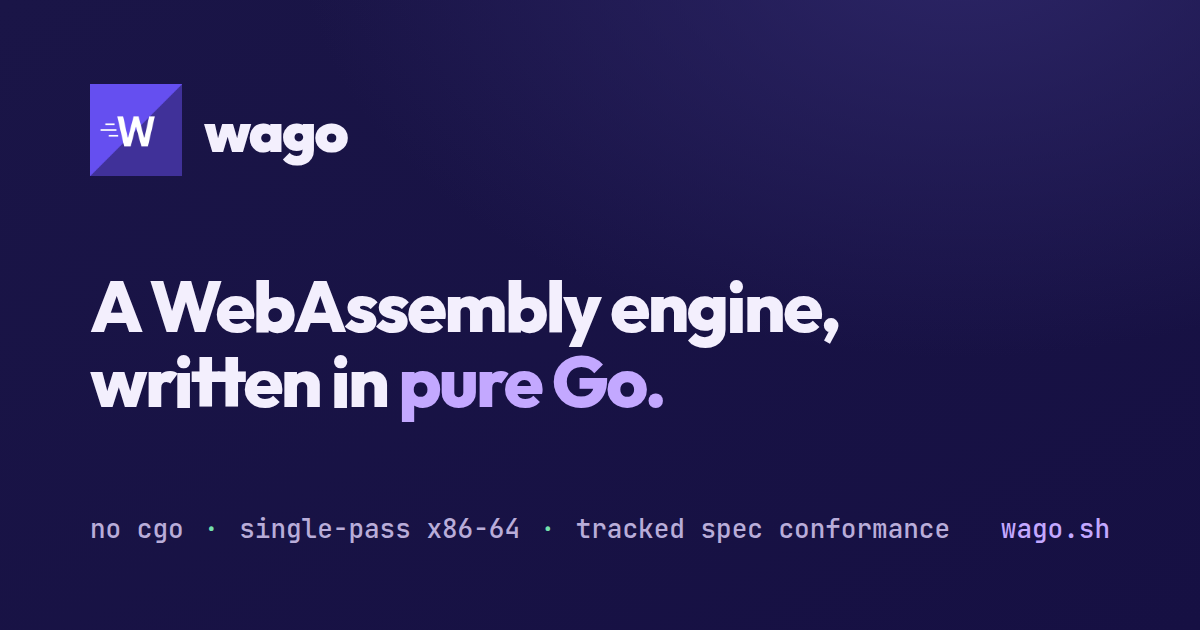
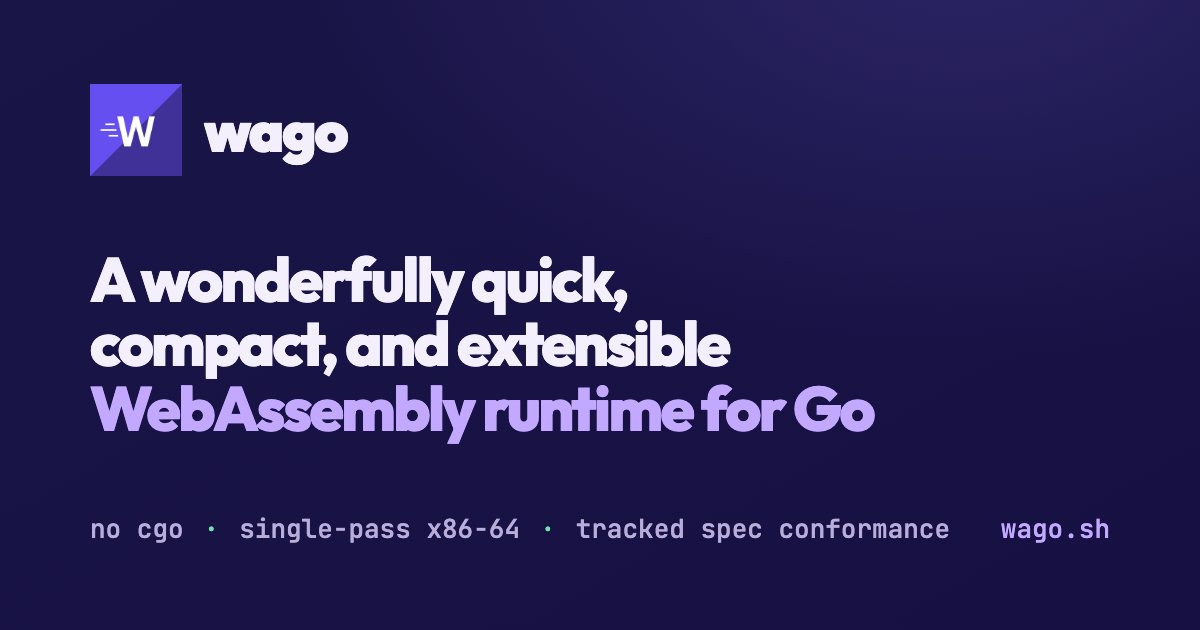
site: update Wago tagline

diff --git a/index.html b/index.html
@@ -11,7 +11,7 @@
         <title>Home | Wago</title>
         <meta
             name="description"
-            content="wago is a WebAssembly engine written in pure Go. Decode, validate, compile, and run wasm with single-pass native amd64 and arm64 backends, no cgo, and tracked conformance."
+            content="A wonderfully quick, compact, and extensible WebAssembly runtime for Go"
         />
         <link rel="canonical" href="https://wago.sh/" />
         <meta name="author" content="Jairus Tanaka" />
@@ -26,11 +26,11 @@
         <meta property="og:locale" content="en_US" />
         <meta
             property="og:title"
-            content="wago - a pure-Go WebAssembly engine"
+            content="wago — A wonderfully quick, compact, and extensible WebAssembly runtime for Go"
         />
         <meta
             property="og:description"
-            content="Embed WebAssembly in Go with no cgo. Single-pass native amd64 and arm64 backends decode, validate, compile, and run wasm."
+            content="A wonderfully quick, compact, and extensible WebAssembly runtime for Go"
         />
         <meta property="og:url" content="https://wago.sh/" />
         <meta
@@ -42,18 +42,18 @@
         <meta property="og:image:height" content="630" />
         <meta
             property="og:image:alt"
-            content="wago - a WebAssembly engine, written in pure Go"
+            content="A wonderfully quick, compact, and extensible WebAssembly runtime for Go"
         />
 
         <!-- Twitter / X Card -->
         <meta name="twitter:card" content="summary_large_image" />
         <meta
             name="twitter:title"
-            content="wago - a pure-Go WebAssembly engine"
+            content="wago — A wonderfully quick, compact, and extensible WebAssembly runtime for Go"
         />
         <meta
             name="twitter:description"
-            content="Embed WebAssembly in Go with no cgo. Single-pass native amd64 and arm64 backends decode, validate, compile, and run wasm."
+            content="A wonderfully quick, compact, and extensible WebAssembly runtime for Go"
         />
         <meta
             name="twitter:image"
@@ -61,7 +61,7 @@
         />
         <meta
             name="twitter:image:alt"
-            content="wago - a WebAssembly engine, written in pure Go"
+            content="A wonderfully quick, compact, and extensible WebAssembly runtime for Go"
         />
 
         <link
@@ -86,7 +86,7 @@
                               "@id": "https://wago.sh/#website",
                               "url": "https://wago.sh/",
                               "name": "wago",
-                              "description": "A WebAssembly engine written in pure Go with single-pass native amd64 and arm64 backends, no cgo, tracked conformance, and a plugin system.",
+                              "description": "A wonderfully quick, compact, and extensible WebAssembly runtime for Go",
                               "inLanguage": "en",
                               "dateModified": "2026-07-30",
                               "publisher": {
@@ -109,7 +109,7 @@
                               "name": "wago",
                               "applicationCategory": "DeveloperApplication",
                               "operatingSystem": "Linux amd64, Linux arm64, macOS arm64",
-                              "description": "A WebAssembly engine written in pure Go with single-pass native amd64 and arm64 backends, no cgo, tracked conformance, and a plugin system.",
+                              "description": "A wonderfully quick, compact, and extensible WebAssembly runtime for Go",
                               "url": "https://wago.sh/",
                               "downloadUrl": "https://github.com/wago-org/wago",
                               "codeRepository": "https://github.com/wago-org/wago",
@@ -301,8 +301,8 @@
             <!-- ░░░ HERO ░░░ -->
             <header class="hero">
                 <h1 class="hero__title">
-                    A WebAssembly engine,<br />written in
-                    <span class="hero__title-accent">pure Go.</span>
+                    A wonderfully quick, compact,<br />and extensible
+                    <span class="hero__title-accent">WebAssembly runtime for Go</span>
                 </h1>
                 <p class="hero__sub">
                     A novel runtime that balances compile time, memory usage,
@@ -6652,7 +6652,7 @@ arm64  add w0, w0, w1</pre>
                     <div>
                         <div class="footer__name">wago</div>
                         <div class="footer__tag">
-                            A pure-Go WebAssembly runtime · Apache 2.0
+                            A wonderfully quick, compact, and extensible WebAssembly runtime for Go · Apache 2.0
                         </div>
                     </div>
                 </div>

diff --git a/og-card.html b/og-card.html
@@ -62,7 +62,7 @@
                 letter-spacing: -2px;
             }
             .headline {
-                font-size: 72px;
+                font-size: 62px;
                 font-weight: 800;
                 line-height: 1.04;
                 letter-spacing: -2.6px;
@@ -96,8 +96,8 @@
                 <span class="brand__name">wago</span>
             </div>
             <h1 class="headline">
-                A WebAssembly engine,<br />written in
-                <span class="accent">pure Go.</span>
+                A wonderfully quick,<br />compact, and extensible<br />
+                <span class="accent">WebAssembly runtime for Go</span>
             </h1>
             <div class="foot">
                 <span>no&nbsp;cgo</span>

diff --git a/README.md b/README.md
@@ -1,7 +1,8 @@
 # wago.sh
 
-The landing page for [**wago**](https://github.com/wago-org/wago) - a pure-Go
-WebAssembly engine. Served at <https://wago.sh>.
+The landing page for [**wago**](https://github.com/wago-org/wago): A wonderfully
+quick, compact, and extensible WebAssembly runtime for Go. Served at
+<https://wago.sh>.
 
 A small static site: plain HTML + CSS, with the interactive bits written in
 **TypeScript** and compiled to ES modules by `tsc` (no bundler, no framework).
